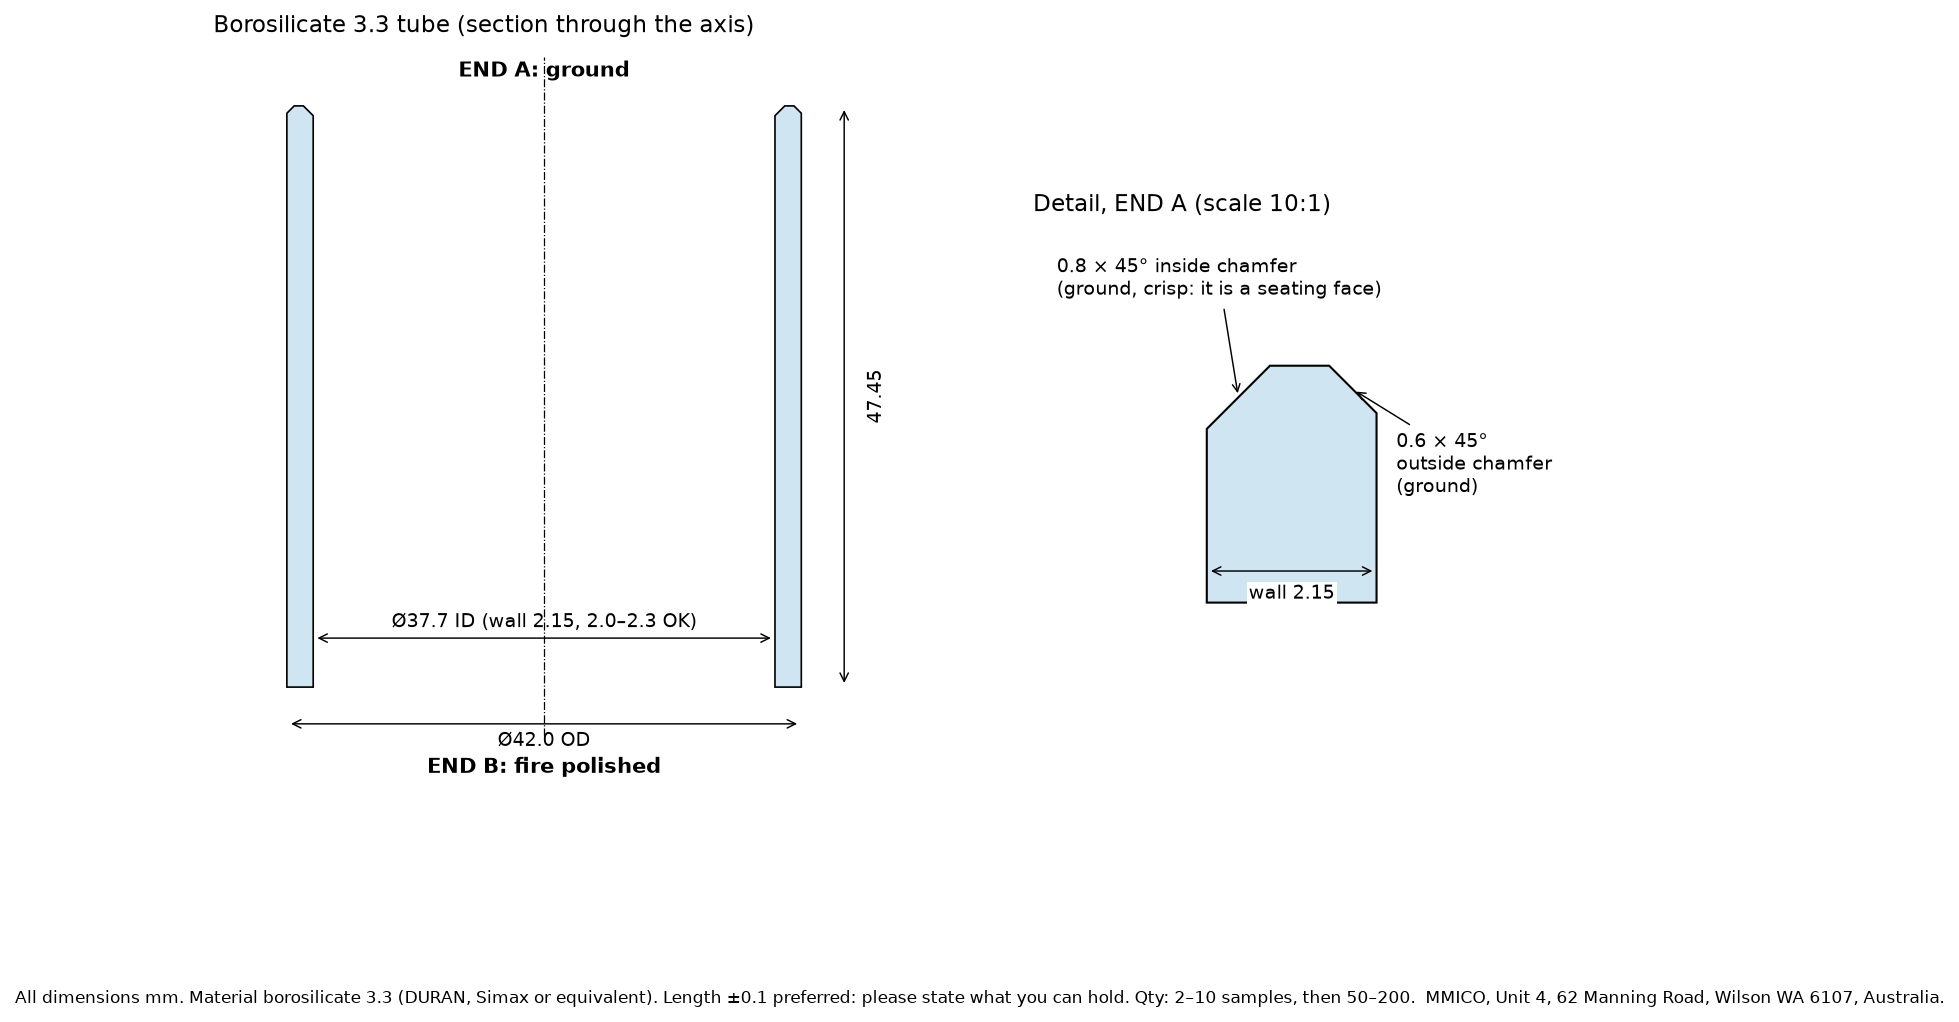
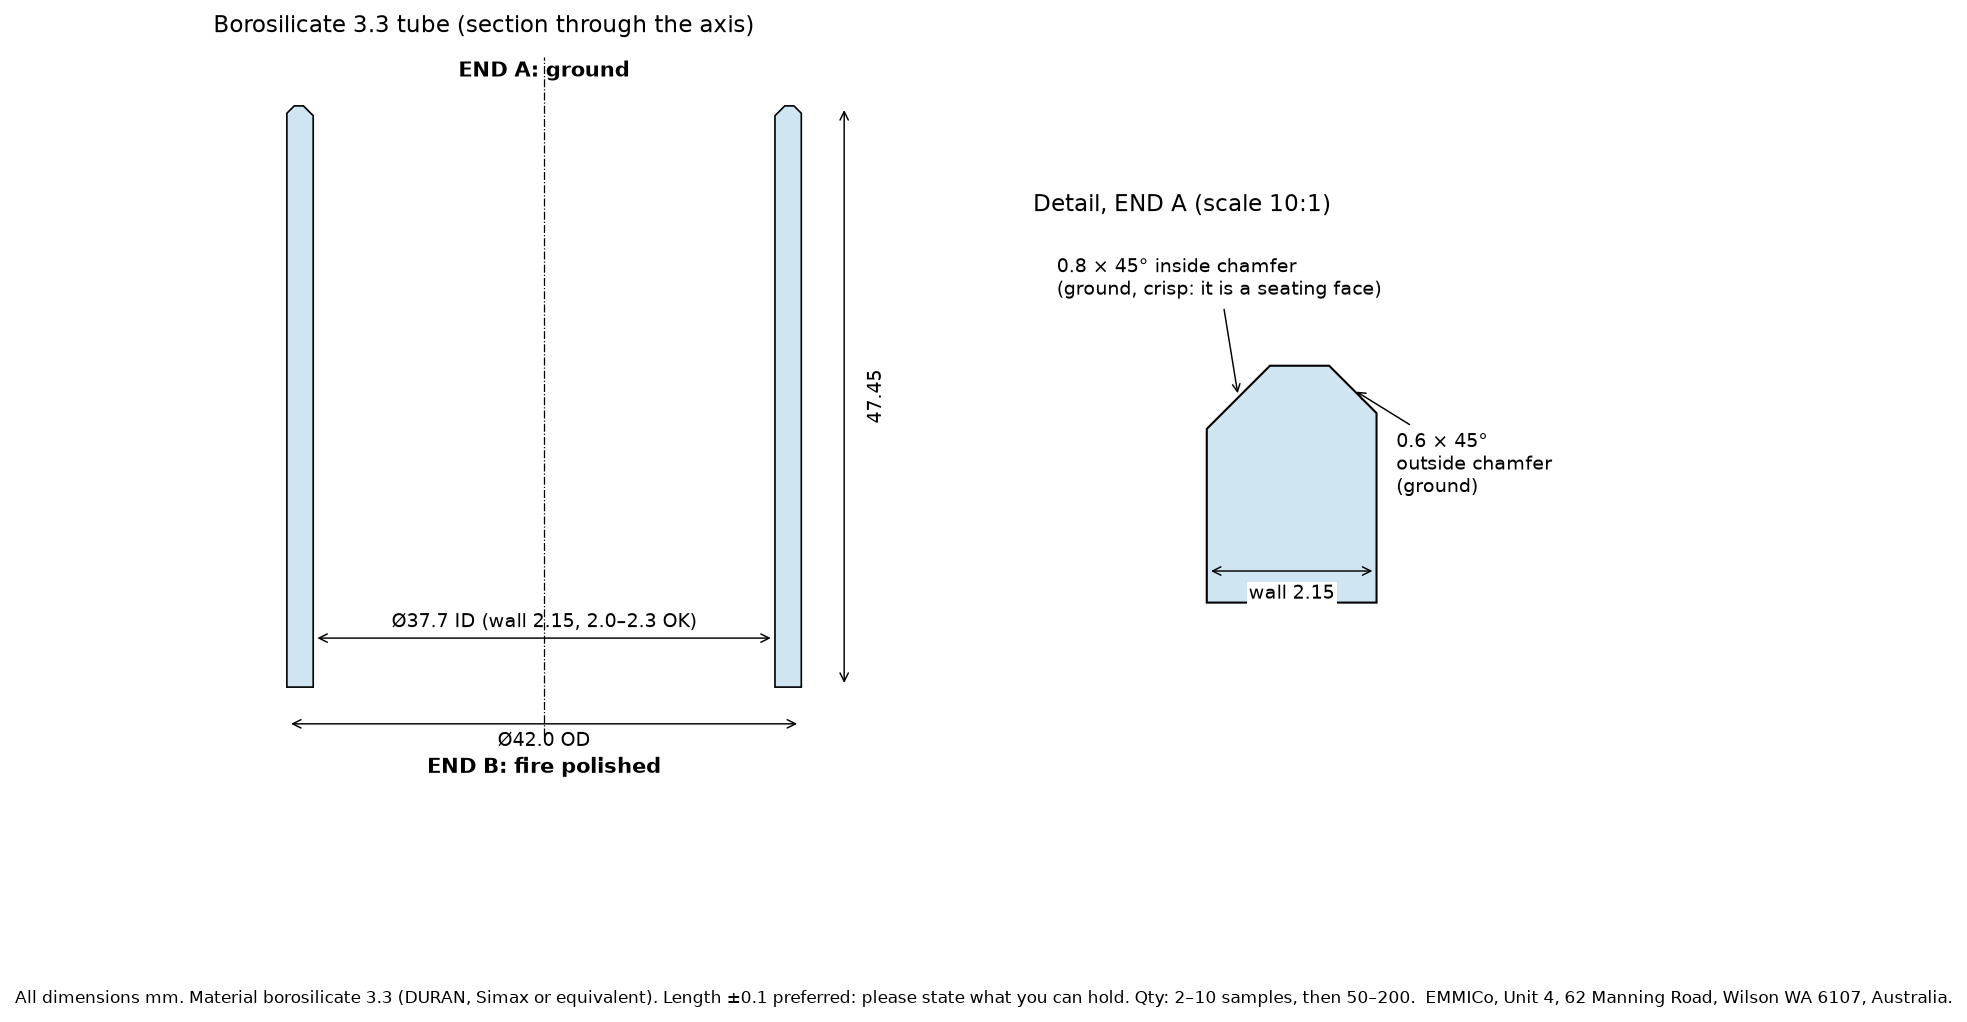
Glass RFQ: company name EMMICo [Ed 14:40]
Claude-Session: https://claude.ai/code/session_01WWsCM7QCNQUDgpRNvrXSbD

diff --git a/docs/glass-tube-rfq-2026-11-02.md b/docs/glass-tube-rfq-2026-11-02.md
@@ -4,7 +4,7 @@ Part: borosilicate 3.3 tube, OD 42.0, wall 2.15 (2.0–2.3), length 47.45; end A
 (the inside one is the cap seat), end B fire-polished. Samples 2–10, then 50–200.
 
 [Ed 14:30] Gmail drafts made (not sent; Danny attaches `docs/img/glass-tube-drawing.pdf` and sends): UQG Optics (adds an OD-grinding
-price), Fuxinag, UQ Glassblowing, Elemental Scientific. Sinoptix has only a web RFQ form: paste the text below. Sender: MMICO,
+price), Fuxinag, UQ Glassblowing, Elemental Scientific. Sinoptix has only a web RFQ form: paste the text below. Sender: EMMICo,
 Unit 4, 62 Manning Road, Wilson WA 6107. v0.21 did not change the tube (length still 47.45).
 
 ## Candidates (best first; none states every step, the quotes must confirm)
